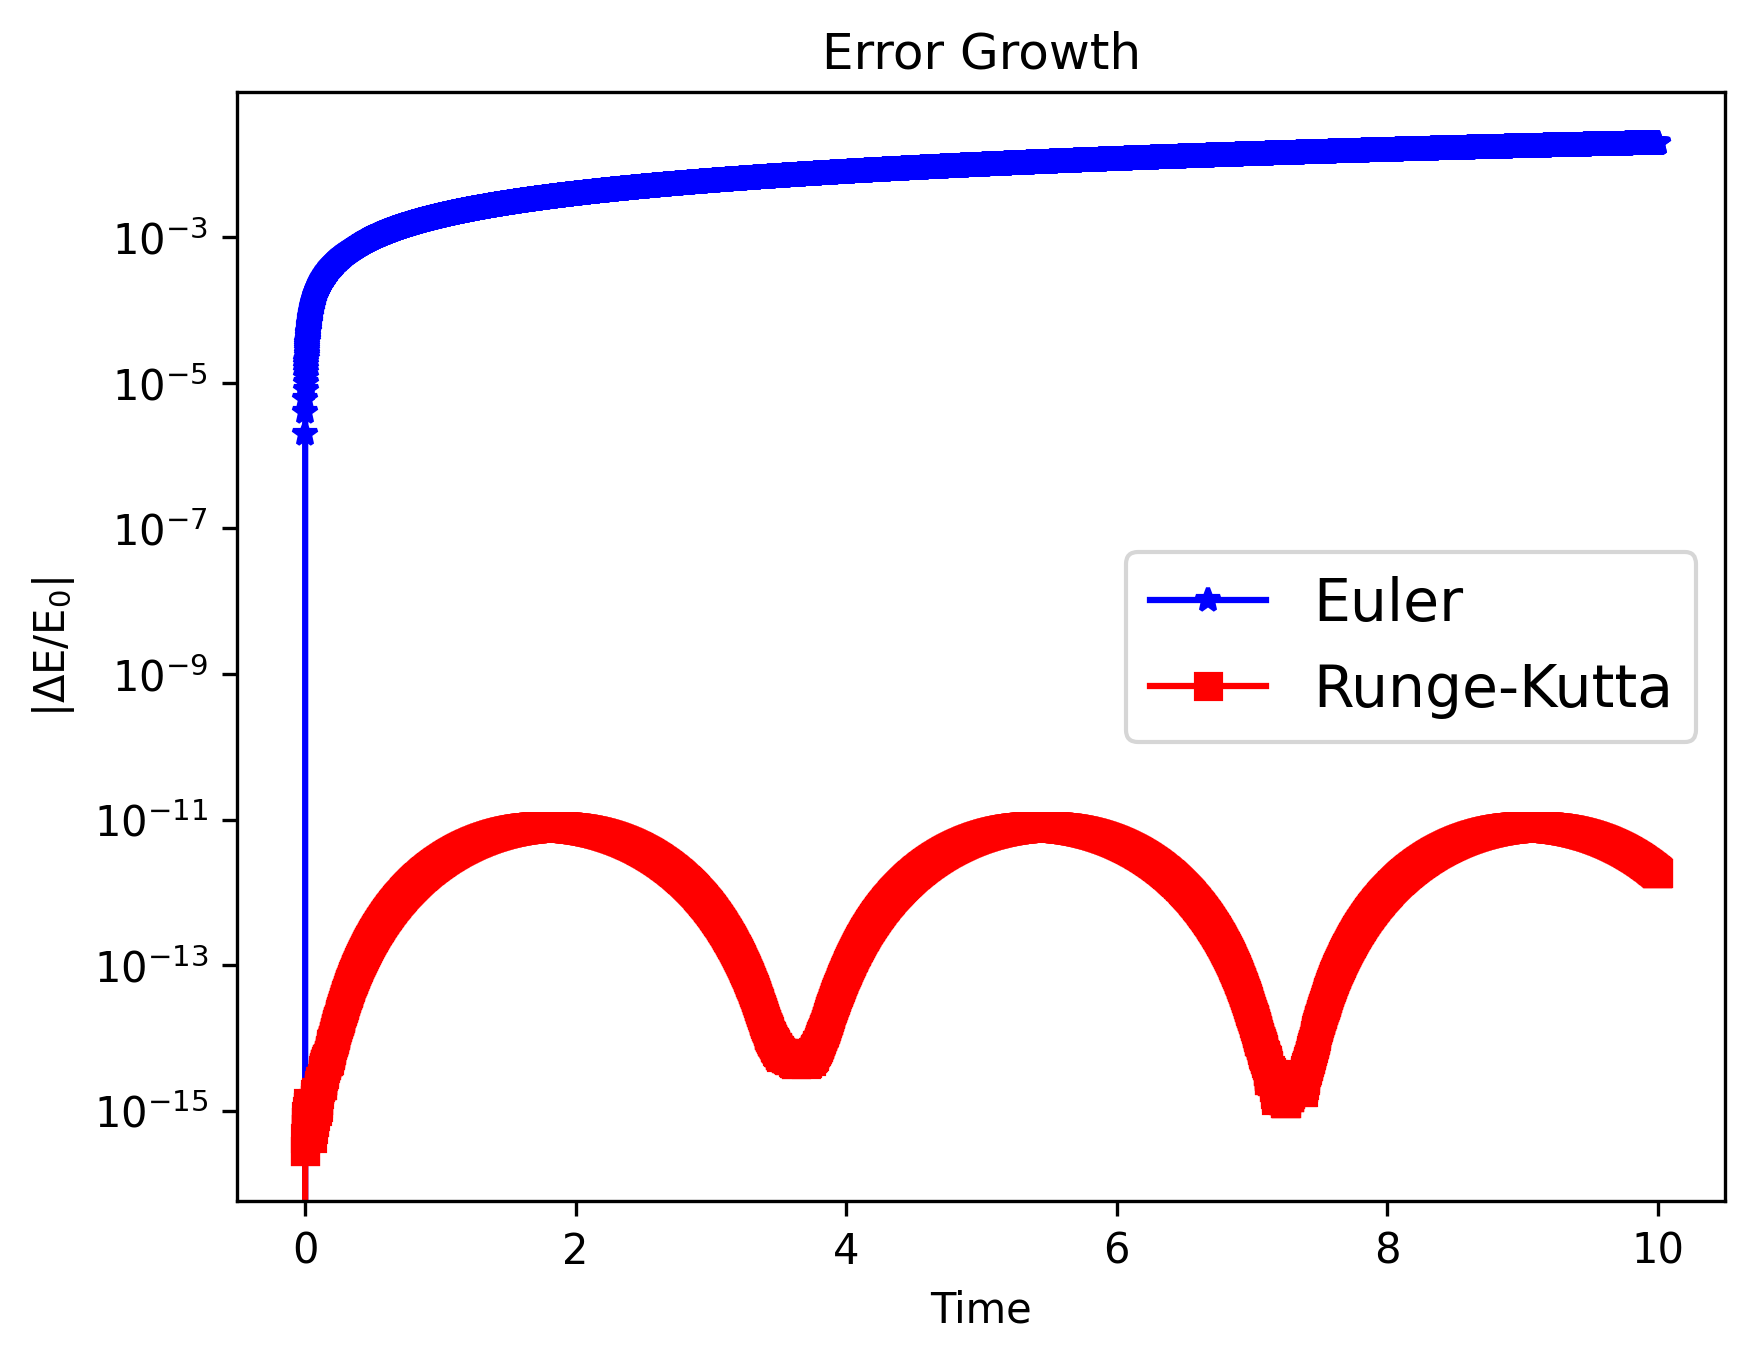
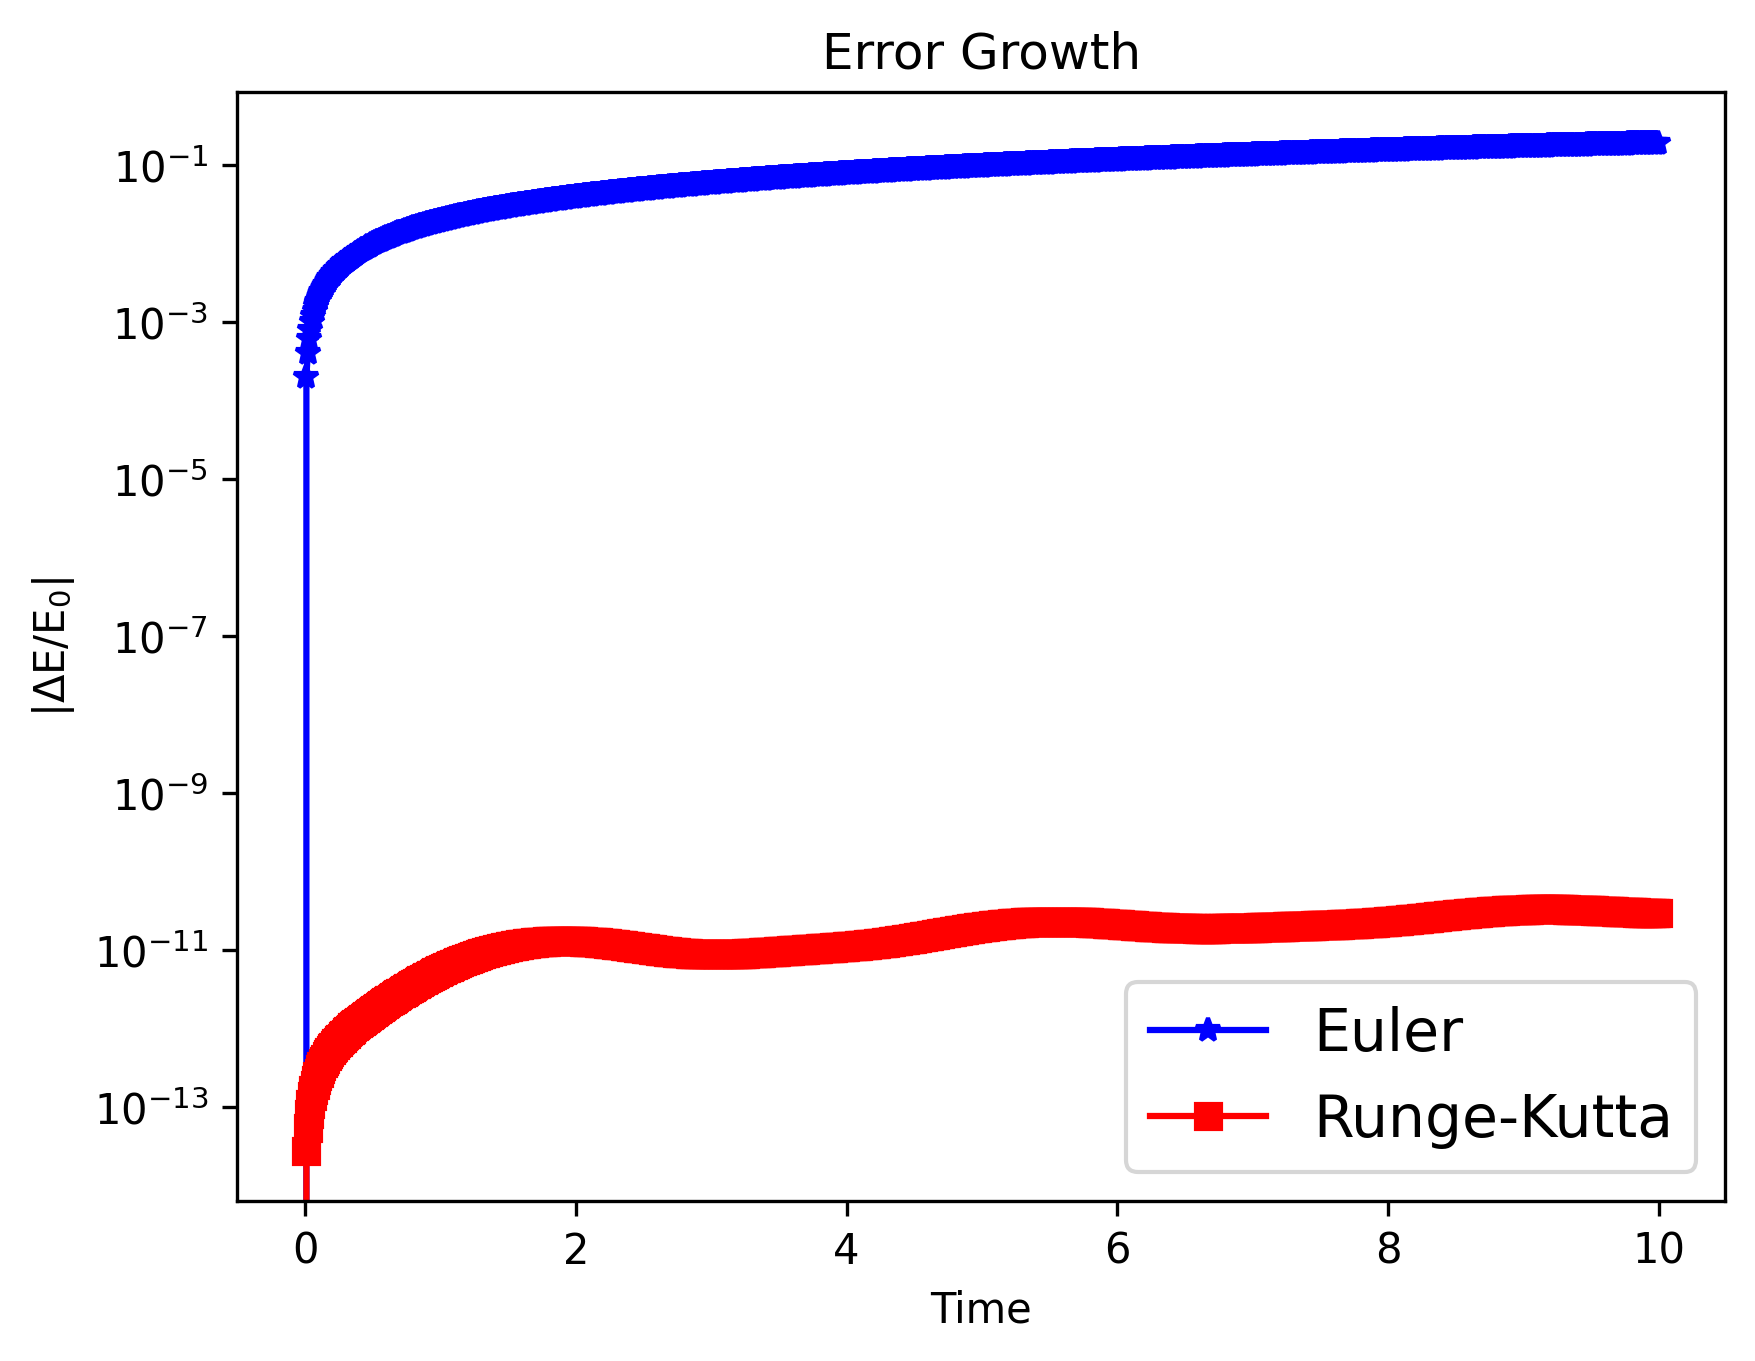
runge-kutta example

diff --git a/docs/source/Orbital_Mechanics.rst b/docs/source/Orbital_Mechanics.rst
@@ -201,11 +201,12 @@ To eliminate the evolution of the center of mass and constrain it to the origin 
 Euler vs Runge-Kutta
 ------------------
 
-** Plot the energy error up to 10 orbits for the Euler and RK4 integrators. **
+** Plot the energy error up to 10 orbits for the Euler and RK4 integrators, using a timestep of 1e-2. **
 
-The integrator parameter can be set to either 'euler' or 'runge-kutta':
+The integrator parameter can be set to either 'euler' or 'runge-kutta'.
 
 .. code-block:: python
+
     from AstroDynamics import orbits  
     import numpy as np 
 
@@ -216,7 +217,7 @@ The integrator parameter can be set to either 'euler' or 'runge-kutta':
     x = np.array([1., 0., 0.])
     v = np.array([0., 1., 0.])
 
-    dt, tend = 1e-3, 10
+    dt, tend = 1e-2, 10
 
     euler = orbits.orbit(M=M, m=m, X=X, V=V, x=x, v=v, dt=dt, tend=tend, integrator='euler')
     rk4 = orbits.orbit(M=M, m=m, X=X, V=V, x=x, v=v, dt=dt, tend=tend, integrator='runge-kutta')
